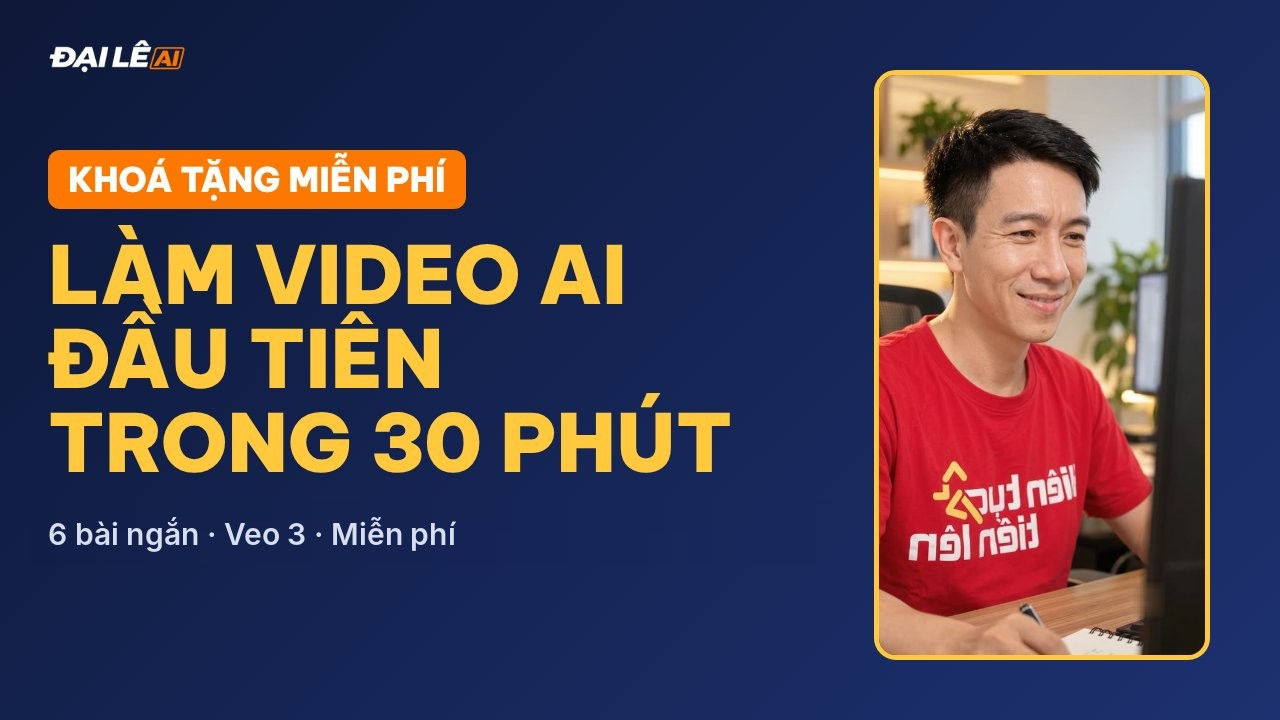
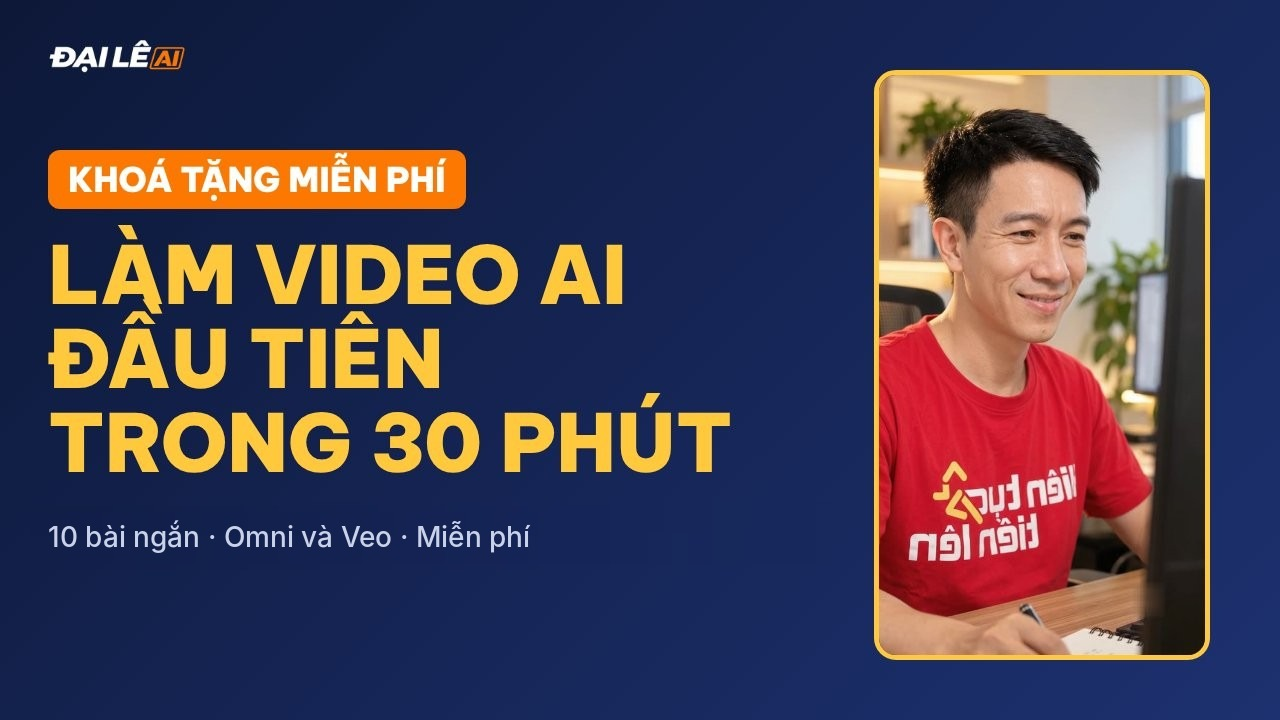
Khoá tặng 10 bài trên trang chủ
Claude-Session: https://claude.ai/code/session_014dVP9GHVN5B5h4F3HWsqPJ

Changed region(s): [[0.0312, 0.7028, 0.4062, 0.7639]]

diff --git a/index.html b/index.html
@@ -149,7 +149,7 @@ footer a:hover{color:var(--ink)}
   <h1>Tự làm ra sản phẩm với <em>AI</em>, ngay cả khi bạn không phải lập trình viên</h1>
   <p class="lead">Đại giúp người kinh doanh một mình biến công việc lặp lại thành hệ thống chạy tự động: chatbot trả lời khách, app riêng, nội dung đều đặn. Cầm tay chỉ việc, dễ làm và tiết kiệm thời gian.</p>
   <div class="hc">
-   <a href="https://hoc.lequydai.com/tang/dang-ky/" style="border-color:#FD7800;background:rgba(253,120,0,.14)"><span class="ic" style="background:rgba(253,120,0,.25)">🎁</span><div><b>KHOÁ TẶNG: LÀM VIDEO AI ĐẦU TIÊN</b><small>6 bài ngắn, học xong có video để đăng</small><em><s style="opacity:.6;margin-right:4px">386.000đ</s>Miễn phí · Nhận khoá tặng →</em></div></a>
+   <a href="https://hoc.lequydai.com/tang/dang-ky/" style="border-color:#FD7800;background:rgba(253,120,0,.14)"><span class="ic" style="background:rgba(253,120,0,.25)">🎁</span><div><b>KHOÁ TẶNG: LÀM VIDEO AI ĐẦU TIÊN</b><small>10 bài ngắn, học xong có video để đăng</small><em><s style="opacity:.6;margin-right:4px">386.000đ</s>Miễn phí · Nhận khoá tặng →</em></div></a>
    <a href="https://hoc.lequydai.com/dang-ky/"><span class="ic">⚙</span><div><b>VẬN HÀNH AGENT</b><small>Đội nhân viên AI tự làm việc cho bạn · 16 bài</small><em><s style="color:#8a8a8a;font-weight:600;margin-right:4px">3.868.000đ</s>1.868.000đ · Xem trang khoá học →</em></div></a>
    <a href="https://hoc.lequydai.com/vibe-coding/dang-ky/"><span class="ic">🤖</span><div><b>28 NGÀY VIBE CODING</b><small>Tự làm bot trả lời khách Zalo & Facebook</small><em><s style="color:#8a8a8a;font-weight:600;margin-right:4px">4.868.000đ</s>2.868.000đ · Xem trang khoá học →</em></div></a>
    <a href="https://hoc.lequydai.com/dong-goi/dang-ky/"><span class="ic">📦</span><div><b>ĐÓNG GÓI KIẾN THỨC THÀNH KHOÁ HỌC</b><small>Biến kinh nghiệm của bạn thành khoá học · 14 bài</small><em>3.868.000đ · Xem trang khoá học →</em></div></a>
@@ -177,11 +177,11 @@ footer a:hover{color:var(--ink)}
  <div class="center rv"><div class="eyebrow">Khoá học</div><h2 class="h2">Học một lần, làm ra hệ thống của riêng bạn</h2><p class="sub">Mỗi khoá là một lộ trình cầm tay chỉ việc. Thanh toán xong là nhận tài khoản học ngay, học trên máy tính hoặc điện thoại.</p></div>
  <div class="cs">
   <a class="co rv" href="https://hoc.lequydai.com/tang/dang-ky/">
-   <img src="/img/tang-hero.jpg?v=20261106" alt="Khoá tặng LÀM VIDEO AI ĐẦU TIÊN TRONG 30 PHÚT">
-   <div class="bd"><div class="mt"><span>🎁 Khoá tặng</span><span>6 bài ngắn</span></div>
+   <img src="/img/tang-hero.jpg?v=20261111" alt="Khoá tặng LÀM VIDEO AI ĐẦU TIÊN TRONG 30 PHÚT">
+   <div class="bd"><div class="mt"><span>🎁 Khoá tặng</span><span>10 bài ngắn</span></div>
     <h3>LÀM VIDEO AI ĐẦU TIÊN TRONG 30 PHÚT</h3>
-    <p>ChatGPT hoặc Gemini viết kịch bản, Veo 3 trong Google Flow tạo video có tiếng nói. Tặng thêm 40 câu lệnh cho 10 ngành và kế hoạch 7 ngày.</p>
-    <ul><li>Kịch bản 4 cảnh và ảnh nhân vật</li><li>Video có giọng nói, đăng lên đón khách</li><li>40 câu lệnh Veo 3 + kế hoạch 7 ngày</li></ul>
+    <p>ChatGPT hoặc Gemini viết kịch bản, Google Flow (Omni, Veo) tạo video có tiếng nói. Tặng thêm 50 câu lệnh cho 10 ngành và kế hoạch 7 ngày.</p>
+    <ul><li>Kịch bản và ảnh nhân vật</li><li>Video có giọng nói, đăng lên đón khách</li><li>50 câu lệnh 10 ngành + kế hoạch 7 ngày</li></ul>
     <div class="ft"><div class="pr"><small>Trọn khoá</small><s style="color:#8a8a8a;font-size:.6em;margin-right:6px">386.000đ</s>Miễn phí</div><span class="btn g sm">Nhận khoá tặng →</span></div></div>
   </a>
   <a class="co rv" href="https://hoc.lequydai.com/dang-ky/">
